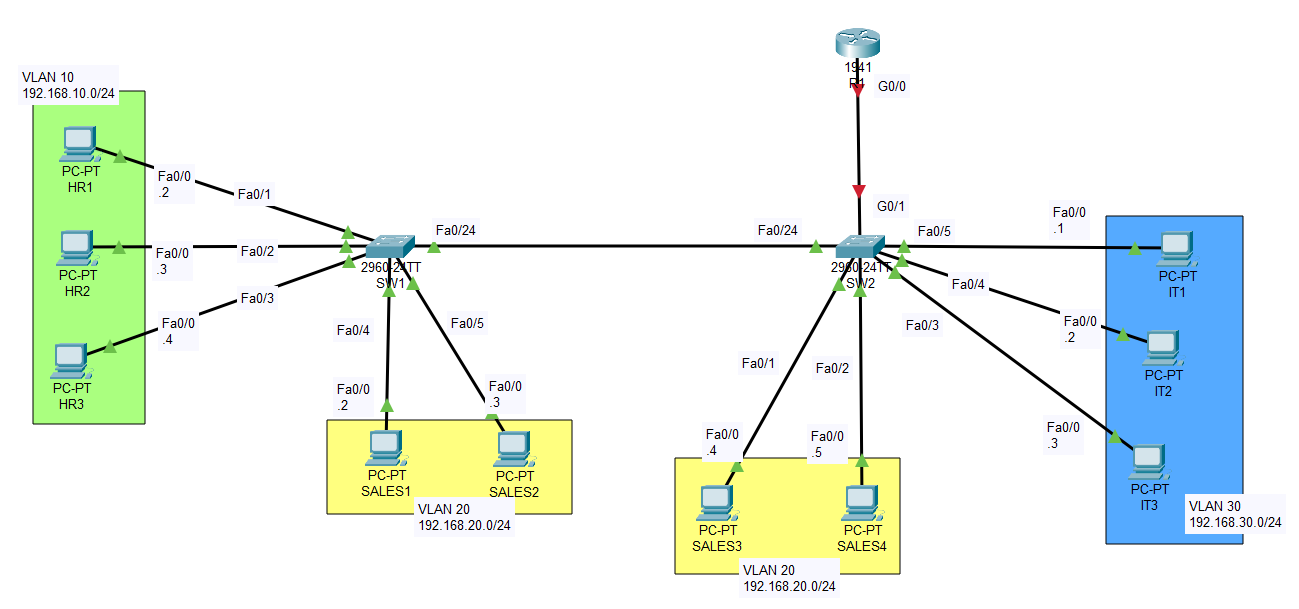
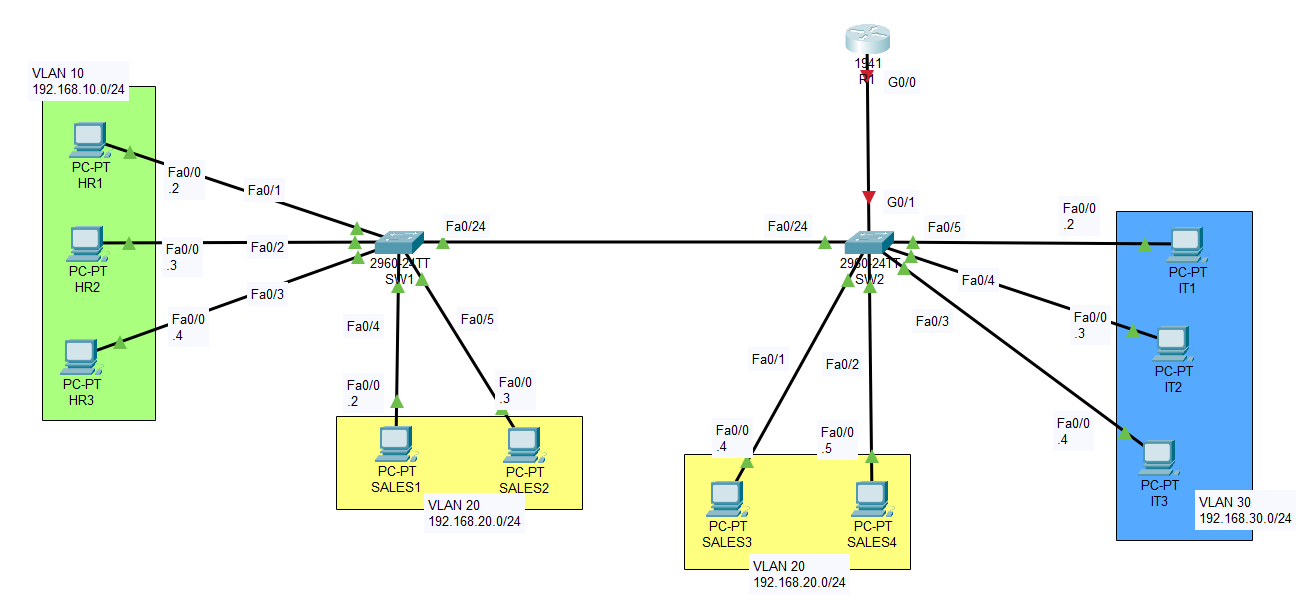
add L2 topology and fix L2-1

Changed region(s): [[0.0, 0.0312, 0.9854, 0.9672], [0.7698, 0.5616, 0.8006, 0.624]]

diff --git a/README.md b/README.md
@@ -13,7 +13,14 @@ This project implements a segmented SOHO network with **three VLANs**, supportin
 * Implement HSRP and DHCP (with DHCP Relay Agent)
 
 ## 🏗 Network Topology
-![Network Topology Diagram](./topology.png)
+
+* ## Router-on-a-Stick (Inter-VLAN Routing) for Layer 2 Switch
+ 
+  ![Network Topology Diagram](./img/topology-L2.png)
+
+* ## SVIs (Switch Virtual Interfaces) for Layer 3 Switch
+ 
+  ![Network Topology Diagram](./img/topology-L3.png)
 
 ### Design Specifications
 The network is divided into three distinct VLANs to enforce logical separation:
